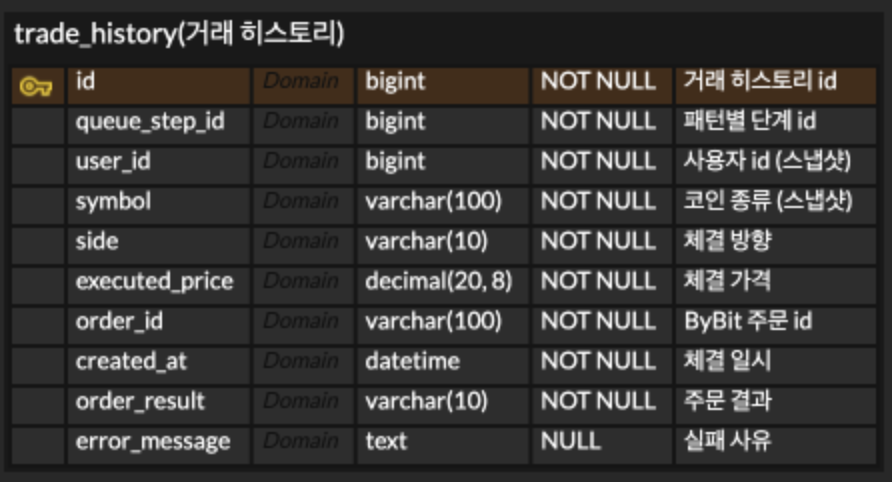
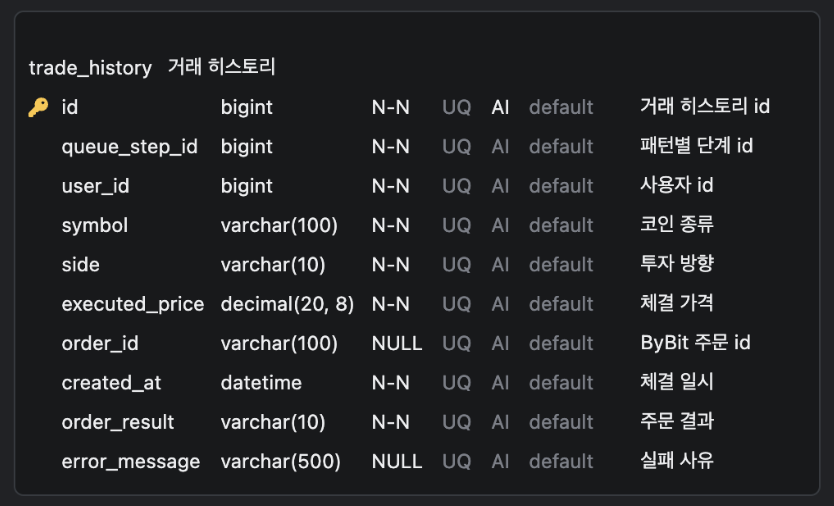
refactor(coin-auto-trading-02): 코인 자동매매 시스템 두번째 포스팅 ERD Editor 사용 변경
1. 테이블 텀부 이미지 변경

diff --git a/_posts/2026-02-28-coin-auto-trading-02.md b/_posts/2026-02-28-coin-auto-trading-02.md
@@ -34,7 +34,7 @@ ERD를 그리기 위해, 전 회사에서 사용했던 **IntelliJ 의 ERD Editor
 
 <br> 
 
-그래서! 가장 만만한 **ERD Cloud**를 이용해서 그려보자. 그럼 논리적 설계를 먼저 해보자.
+그래서! 가장 만만한 **ERD Cloud**를 이용해서 그려보자. 그럼 논리적 설계를 먼저 해보자. (**VSCode**의 플러그인으로 ERD Editor를 사용하면 버그가 없다는 소식에 다시 ERD Editor를 쓰기로 결정했다.)
 
 (세세한 내용은 제외하고 큰 틀만.. 다 적기에는 너무 양이 방대하다.)
 
